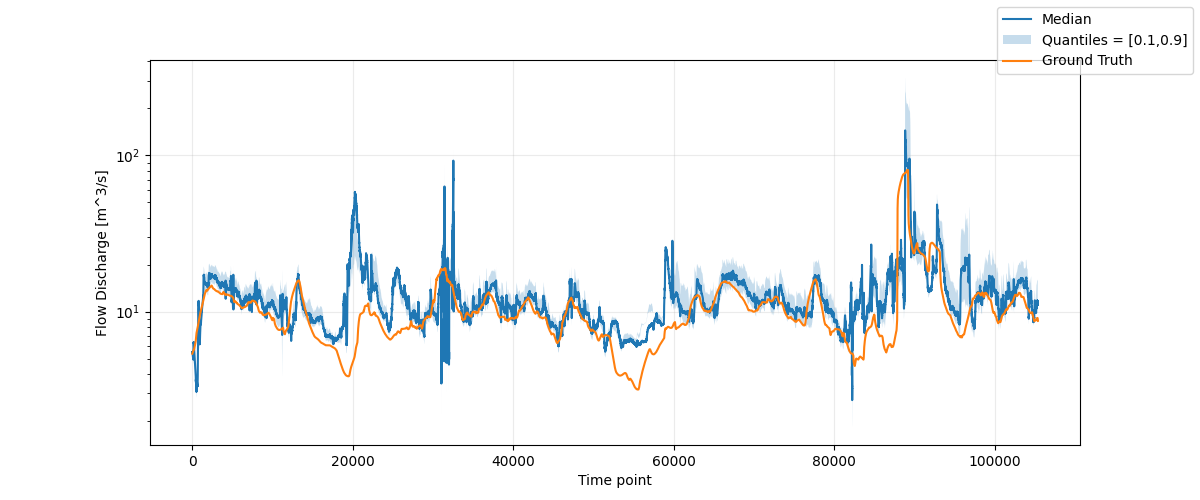
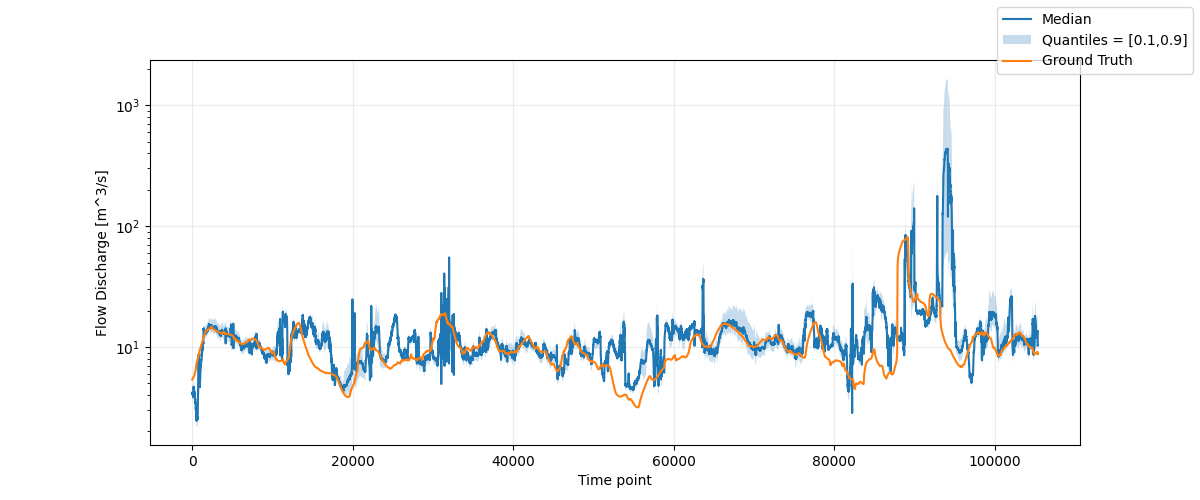
added ltcn model

diff --git a/models/LTCN.py b/models/LTCN.py
@@ -1,31 +1,58 @@
 import jax
 import jax.numpy as jnp
-from flax import linen as nn
-from flax.training import train_state
 
-class LSTM(nn.Module):
+from flax.linen import nn
+from typing import Any, Callable, Tuple
+
+class LTCNCell(nn.Module):
     hidden_size: int
+    activation: Callable = nn.tanh
 
     @nn.compact
+    def __call__(self, carry, inputs, dt):
+        h = carry  # shape (hidden_size,)
+        input_dim = inputs.shape[-1]
+
+        gamma = self.param("gamma", nn.initializers.xavier_uniform(),
+                           (input_dim, self.hidden_size))
+        gamma_r = self.param("gamma_r", nn.initializers.xavier_uniform(),
+                             (self.hidden_size, self.hidden_size))
+        mu = self.param("mu", nn.initializers.uniform(),
+                        (self.hidden_size,))
+        A = self.param("A", nn.initializers.uniform(),
+                       (self.hidden_size,))
+        tau = self.param("tau", nn.initializers.constant(1.0),
+                         (self.hidden_size,))
+
+        # --- Encode input ---
+        I_t = jnp.dot(inputs, gamma)            # (hidden_size,)
+        x_t = jnp.dot(h, gamma_r) + mu              # (hidden_size,)
+
+        # --- Nonlinearity ---
+        f = self.activation(x_t + I_t)
+
+        # --- Liquid time-constant integration ---
+        x_tp1 = (x_t + dt * f * A) / (1 + dt * (1 / tau + f))
+
+        return x_tp1, x_tp1
+
+class LTCN(nn.Module):
+    hidden_size: int
+    
+    @nn.compact
     def __call__(self, x):
-        """
-        x: (batch, time, features)
-        returns: (batch, time, hidden_size)
-        """
         B, T, D = x.shape
         h0 = jnp.zeros((B, self.hidden_size))
-        c0 = jnp.zeros((B, self.hidden_size))
 
-        # Wrap the OptimizedLSTMCell with scan across time
-        lstm_scan = nn.scan(
-            nn.OptimizedLSTMCell,
+        ltcn_scan = nn.scan(
+            LTCNCell, 
             variable_broadcast="params",
             split_rngs={"params": False},
             in_axes=1,    # time axis in input
             out_axes=1    # keep time axis in outputs
-        )(self.hidden_size, name="lstm_cell")
-
-        (h_final, c_final), outputs = lstm_scan((h0, c0), x)
+        )(self.hidden_size, name="ltcn_cell")
+    
+        x_final, outputs = ltcn_scan(h0, x)
         return outputs
 
 class SeqRegressor(nn.Module):
@@ -41,14 +68,14 @@ class SeqRegressor(nn.Module):
         out = nn.Dense(self.features * self.quantiles)(x)
         return out.reshape(x.shape[0], self.features, self.quantiles)
 
-class LSTMRegressor(nn.Module):
+class LTCNRegressor(nn.Module):
     features: int
     quantiles: int
     hidden_size: int
 
     @nn.compact
     def __call__(self, x):
-        lstm = LSTM(hidden_size=self.hidden_size)
+        lstm = LTCN(hidden_size=self.hidden_size)
         regressor = SeqRegressor(self.features, self.quantiles)
 
         x = lstm(x)
@@ -56,21 +83,9 @@ class LSTMRegressor(nn.Module):
 
         return out
 
-class LSTMTrainState(train_state.TrainState):
+class LTCNTrainState(train_state.TrainState):
     pass
 
-@jax.jit
-def quantile_loss(y_pred, y_true, quantiles):
-    """
-    y_pred: (Nstations, Nquantiles)
-    y_true: (Nstations,) or (Nstations,1)
-    quantiles: 1D array of quantiles, shape (Nquantiles,)
-    """
-    # Ensure y_true has shape (Nstations, 1)
-
-    error = y_true - y_pred                     # (Nstations, Nquantiles)
-    loss = jnp.maximum(quantiles * error, (quantiles - 1) * error)
-    return jnp.mean(loss)
 
 @jax.jit
 def quantile_loss_complex(
@@ -106,8 +121,9 @@ def quantile_loss_complex(
     # Return either per-quantile or total
     return total_loss
 
+
 @jax.jit
-def LSTMtrain_step(state, batch, quantiles):
+def LTCNtrain_step(state, batch, quantiles):
     """
     state: TrainState
     batch: dict with "x" and "y"
@@ -138,7 +154,7 @@ def LSTMtrain_step(state, batch, quantiles):
     return state, loss
 
 @jax.jit
-def LSTMeval_step(state, batch, quantiles):
+def LTCNeval_step(state, batch, quantiles):
     """
     state: TrainState
     batch: dict with "x" and "y"
@@ -159,20 +175,3 @@ def LSTMeval_step(state, batch, quantiles):
     )
     return loss, preds
     
-
-if __name__ == "__main__":
-    # Dummy data
-    batch_size, time, input_features = 8, 20, 10
-    features, hidden_size = 5, 32
-    quantiles = jnp.array([0.1, 0.5, 0.9])
-
-    key = jax.random.PRNGKey(0)
-    x = jax.random.normal(key, (batch_size, time, input_features))
-    y = jax.random.normal(key, (batch_size, features))
-
-    # Initialize model
-    model = LSTMRegressor(features=features, quantiles=len(quantiles), hidden_size=hidden_size)
-    variables = model.init(key, x)
-
-    y_pred = model.apply(variables, x)
-    print(y_pred.shape)

diff --git a/experiments/LTCN_forecast.py b/experiments/LTCN_forecast.py
@@ -1,0 +1,124 @@
+import numpy as np
+import pandas as pd
+import matplotlib.pyplot as plt
+import re
+
+from utils.datautils import (
+    get_data, build_multi_horizon_dataset, 
+    get_discharges, create_train_val_test,
+    batch_iterator, prefetch_batches, shard_batch, reshape_fn
+)
+
+from models.LSTM import LSTMRegressor, LSTMTrainState, LSTMtrain_step, LSTMeval_step
+
+
+# import DL libraries
+import jax
+import jax.numpy as jnp
+import flax.linen as nn 
+import optax
+
+
+# Define a mapping from window suffix to temporal length (in increasing order)
+temporal_order = {
+    "": 0,      # original column
+    "12h": 1,
+    "1D": 2,
+    "1W": 3,
+    "2W": 4,
+    "1M": 5,
+    "3M": 6,
+    "6M": 7
+}
+
+def sort_key(col):
+    # Match the station name and optional MA suffix
+    m = re.match(r"(\d+)(?:_MA_)?(.*)", col)
+    station, suffix = m.groups()
+    # Map suffix to temporal order
+    return (station, temporal_order.get(suffix, 99))
+
+
+## We'll be studying the Guadalupe River in Kerr County, TX the USGS sites are the following
+# Previously exploring the data some stations report the discharge variable in another column of the data frame
+
+sites = ["08165300", "08165500", "08166000", "08166140", "08166200"]
+nan_sites = ["08166140", "08166200"]
+
+import polars as pl
+
+def train_model():
+    Q = get_data("./data/Q_clean.csv", sites, nan_sites)
+    Q = pl.from_pandas(Q)
+
+    # Feature engineering, augmenting dataset with
+    # 1 week MA
+    # 2 week MA
+    # 1 month MA
+    # 3 month MA
+    # 6 month MA
+
+    # 15-min resolution -> integer number of rows
+    windows = {
+        "12h": 48,
+        "1D": 96,
+        "1W": 672,
+        "2W": 1344,
+        "1M": 2880,
+        "3M": 8640,
+        "6M": 17280
+    }
+
+    time = Q.select("datetime")
+    Q = Q.select(pl.col(pl.Float64))
+    
+    # Create a new DataFrame for all new features
+    ma_features = []
+    cols = {}
+    for i,col in enumerate(Q.columns):
+        for key, value in windows.items():
+            ma_features.append(
+                pl.col(col).rolling_mean(window_size=value, min_periods=1).alias(f"{col}_MA_{key}")
+            )
+        cols[col] = i
+    # Add rolling means as new columns
+    Q = Q.with_columns(ma_features)
+    Q = Q.select(sorted(Q.columns, key=sort_key))
+
+    # build lagged dataset
+
+    in_stations = jnp.array([i for i in range(len(Q.columns))])
+    out_stations = jnp.array([cols["08166200"]])
+
+    time_window = 64        # 16 hours of context 
+    horizons = (15*4*jnp.array([2, 4, 8, 16, 32]))  # Multi horizon prediction [2, 4, 8, 16, 32] h in advance
+    
+    device_cpu = jax.devices("cpu")[0]
+    Q_cpu = jax.device_put(Q.to_numpy(), device=device_cpu)
+
+    # compiling function for CPU
+    X, Y, Y_idx = build_multi_horizon_dataset(Q_cpu, in_stations, out_stations, time_window, horizons)
+    time = time.to_numpy()[Y_idx]
+
+    X = jnp.log10(X)
+    Y = jnp.log10(Y)
+
+    # make batches 
+    batch_size = 256
+    
+    assert batch_size % jax.local_device_count() == 0
+
+    train, val, test, times = create_train_val_test(X, Y, time)
+    
+    num_epochs = 30
+
+    in_features = X.shape[-1]
+    out_features = Y.shape[-2]
+    hidden_size = 32
+    quantiles = jnp.array([0.1, 0.5, 0.9])
+    quantiles_b = jnp.broadcast_to(quantiles, (jax.local_device_count(),) + quantiles.shape)
+    
+    key = jax.random.PRNGKey(123)
+    x = jnp.zeros((batch_size, time_window, in_features))
+
+    model LTCN

diff --git a/experiments/LSTM_forecast.py b/experiments/LSTM_forecast.py
@@ -90,7 +90,7 @@ def train_model():
     in_stations = jnp.array([i for i in range(len(Q.columns))])
     out_stations = jnp.array([cols["08166200"]])
 
-    time_window = 32        # 8 hours of context 
+    time_window = 64        # 16 hours of context 
     horizons = (15*4*jnp.array([2, 4, 8, 16, 32]))  # Multi horizon prediction [2, 4, 8, 16, 32] h in advance
     
     device_cpu = jax.devices("cpu")[0]
@@ -104,7 +104,7 @@ def train_model():
     Y = jnp.log10(Y)
 
     # make batches 
-    batch_size = 512
+    batch_size = 256
     
     assert batch_size % jax.local_device_count() == 0
 
@@ -114,7 +114,7 @@ def train_model():
 
     in_features = X.shape[-1]
     out_features = Y.shape[-2]
-    hidden_size = 64
+    hidden_size = 32
     quantiles = jnp.array([0.1, 0.5, 0.9])
     quantiles_b = jnp.broadcast_to(quantiles, (jax.local_device_count(),) + quantiles.shape)
     
@@ -123,7 +123,12 @@ def train_model():
 
     model = LSTMRegressor(features=out_features, quantiles=len(quantiles), hidden_size=hidden_size)
     params = model.init(key, x)
-    tx = optax.adamw(learning_rate=5e-3, weight_decay=1e-4)
+
+    # learning rate
+    lr_scheduler = optax.schedules.cosine_decay_schedule(init_value=1e-3, decay_steps=5, alpha=0.001, exponent=1.0)
+
+
+    tx = optax.adamw(learning_rate=lr_scheduler, weight_decay=1e-4)
     state = LSTMTrainState.create(apply_fn=model.apply, params=params,tx=tx)
 
     print(jax.local_devices())
@@ -168,7 +173,8 @@ def train_model():
         train_losses.append(loss_train)
         val_losses.append(loss_val)
 
-        print(f"Epoch {epoch+1}, Train Loss: {loss_train.item():.4f}, Val Loss: {loss_val.item():.4f}")
+        print(f"Epoch {epoch+1} | Learning rate {lr_scheduler(epoch)}") 
+        print(f"Train Loss: {loss_train.item():.4f}, Val Loss: {loss_val.item():.4f}")
 
     # Testing phase
     test_gen = batch_iterator(test, batch_size=batch_size, shuffle=False)

diff --git a/experiments.py b/experiments.py
@@ -1,4 +1,4 @@
-from experiments.discharge_forecast import train_model
+from experiments.LSTM_forecast import train_model
 
 if __name__ == "__main__":
     train_model()
